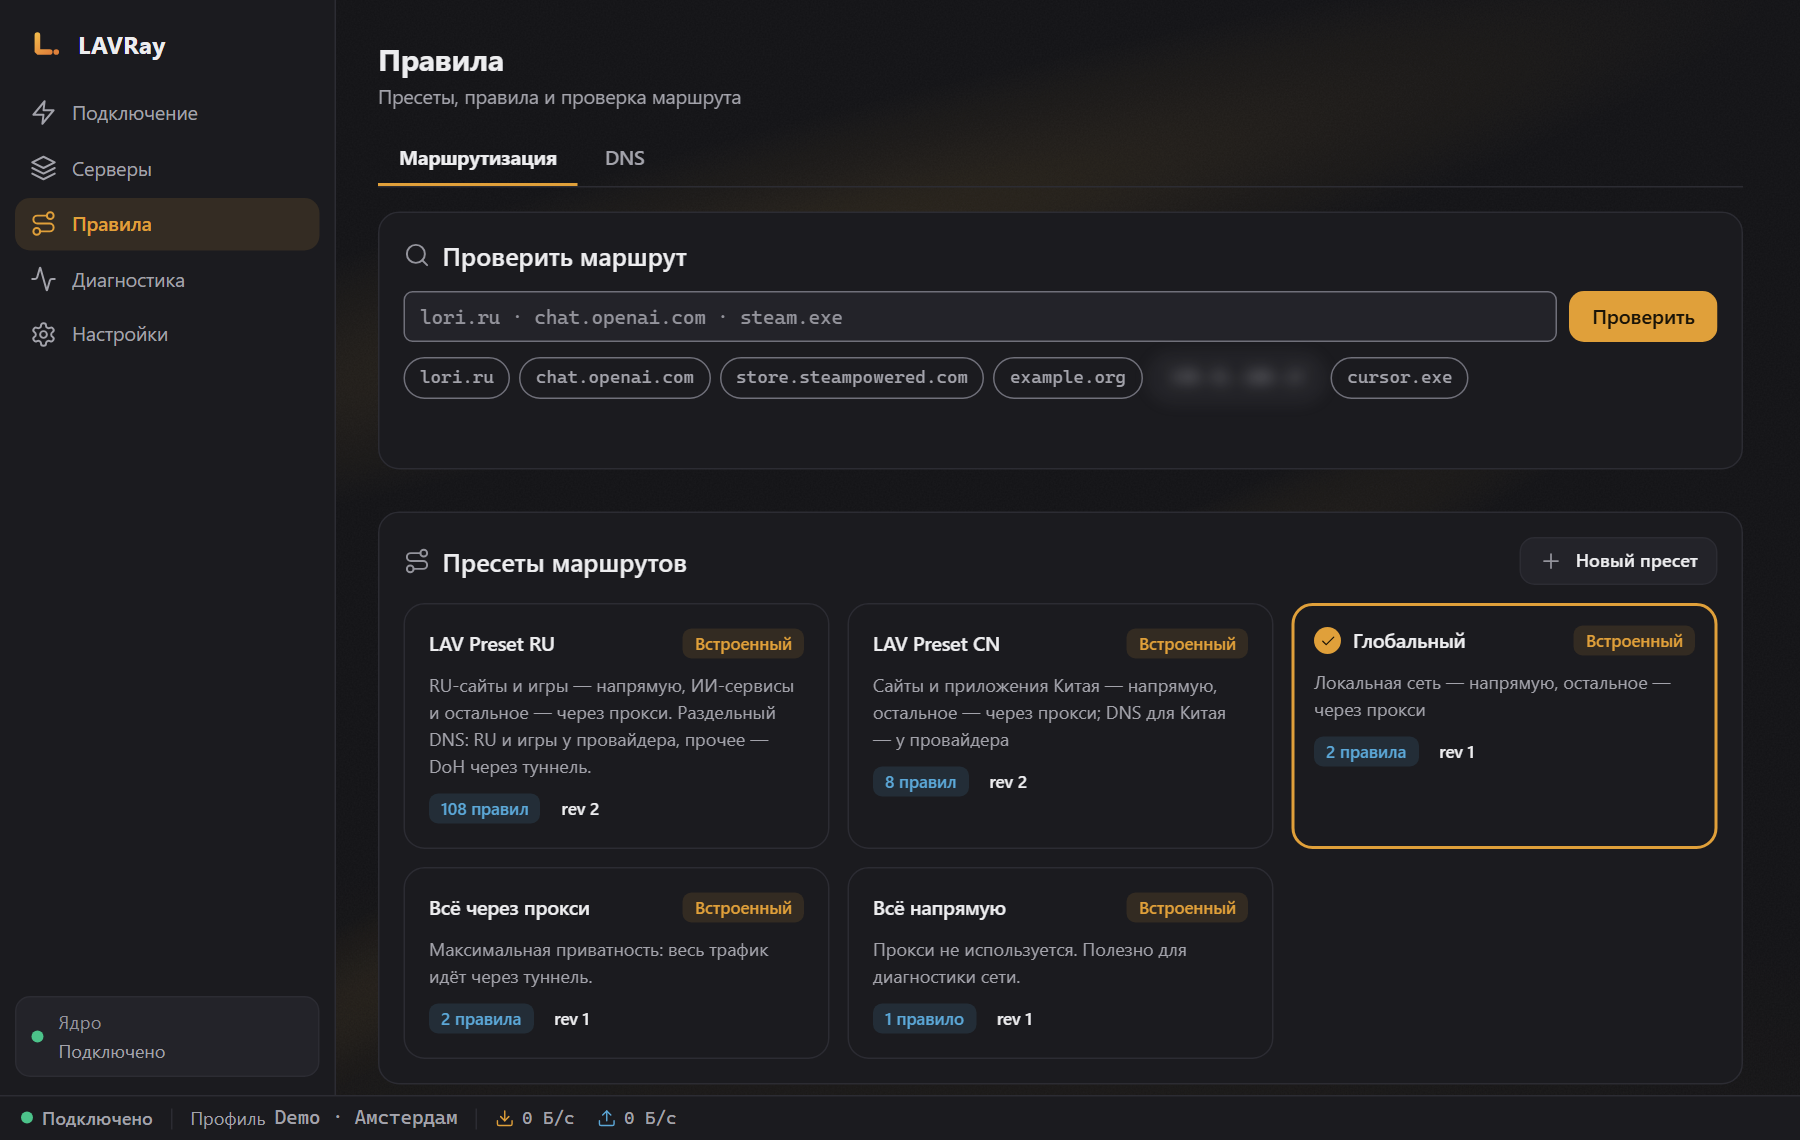
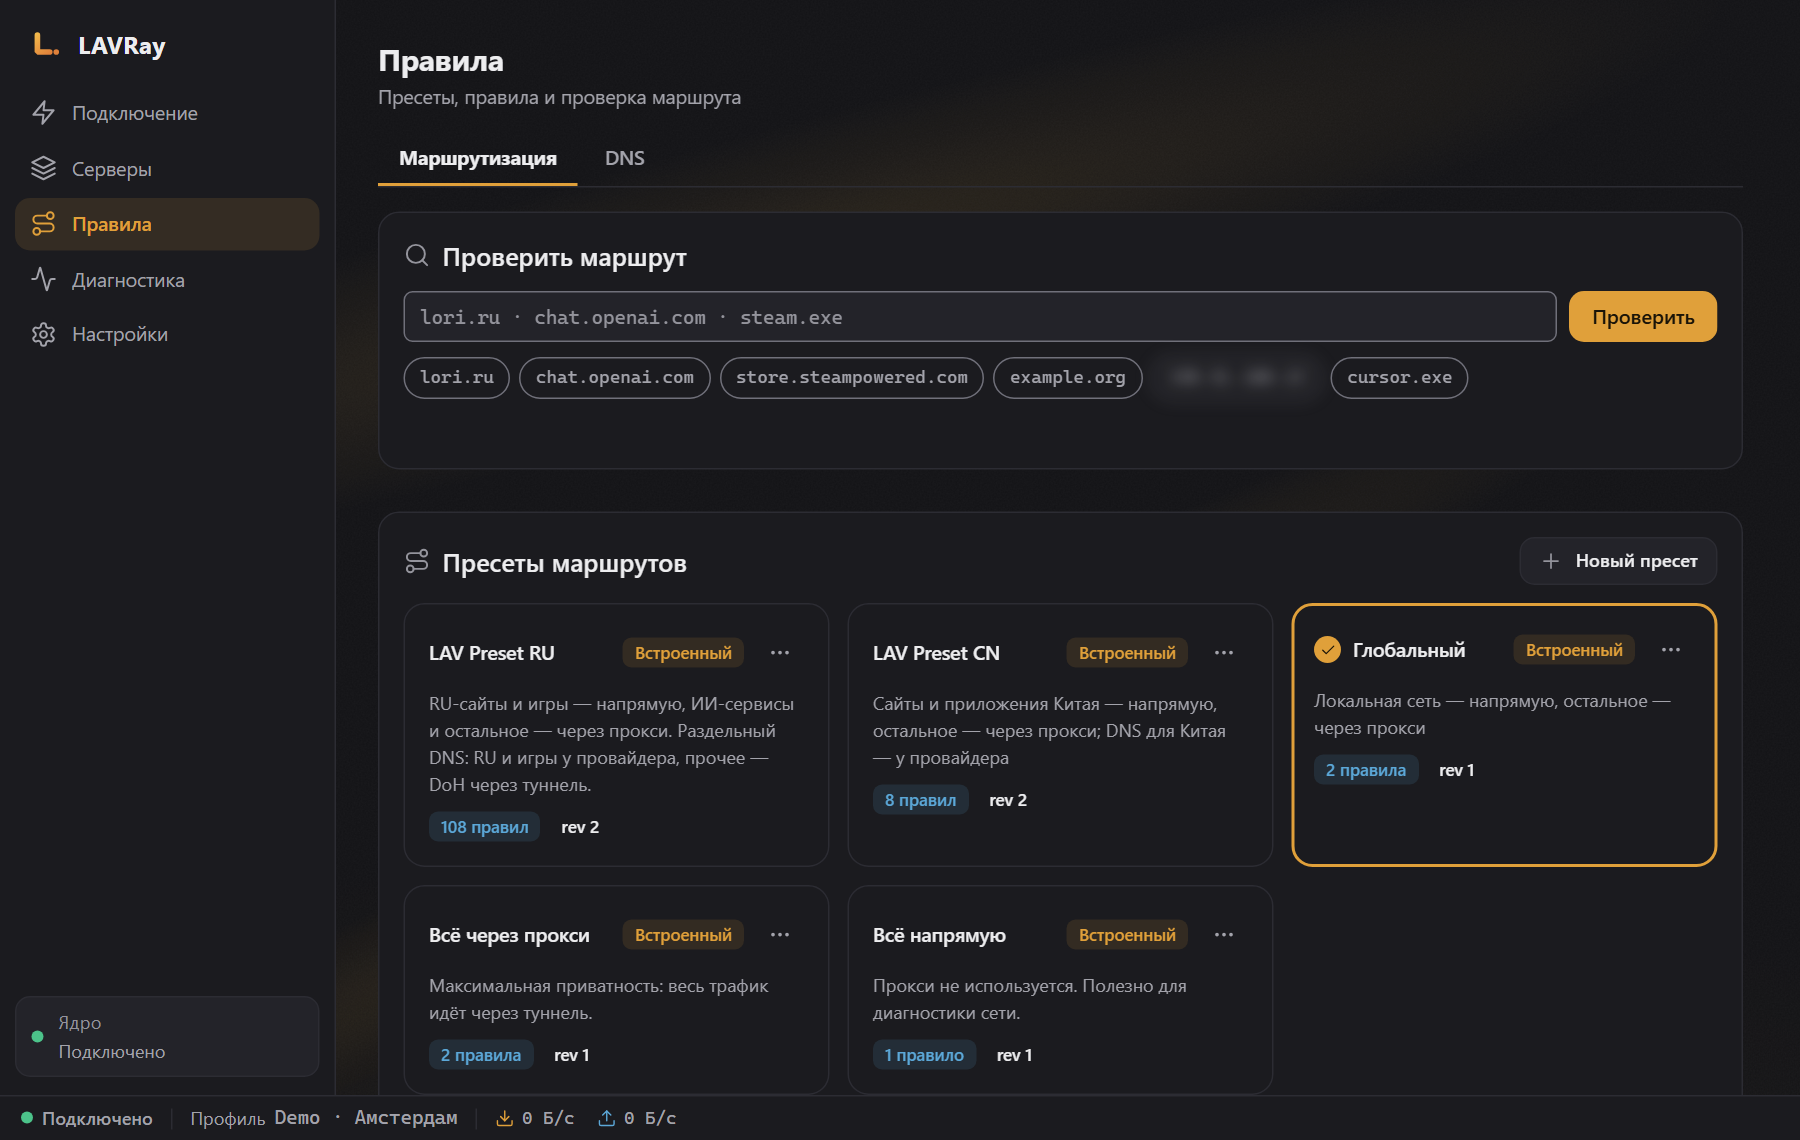
docs: скриншоты 0.9.2 на пяти языках
Русские кадры пересняты под 0.9.2; для en, zh, es, de — свои папки
docs/screenshots/<язык>/, переводы README ссылаются на них. Демо-данные,
адреса размыты.

diff --git a/README.de.md b/README.de.md
@@ -7,8 +7,8 @@
 **LAVRay** — VPN- und Proxy-Client für Windows auf Basis des [sing-box](https://github.com/SagerNet/sing-box)-Cores, Nachfolger von NekoBox. Er verbindet sich mit deinen Servern und Abos und übermittelt dem Anbieter standardmäßig keinerlei Gerätedaten.
 
 <p align="center">
-  <img src="docs/screenshots/connect-dark.png" width="49%" alt="Bildschirm „Verbindung“, dunkles Design">
-  <img src="docs/screenshots/connect-light.png" width="49%" alt="Bildschirm „Verbindung“, helles Design">
+  <img src="docs/screenshots/de/connect-dark.png" width="49%" alt="Bildschirm „Verbindung“, dunkles Design">
+  <img src="docs/screenshots/de/connect-light.png" width="49%" alt="Bildschirm „Verbindung“, helles Design">
 </p>
 
 - **Protokolle:** VLESS (einschließlich REALITY), VMess, Trojan, Shadowsocks, Hysteria2, TUIC, SOCKS, HTTP.
@@ -60,14 +60,14 @@ Das Schließen des Fensters minimiert LAVRay in den Tray; das lässt sich unter 
 
 ### Server
 
-<img src="docs/screenshots/servers.png" alt="Bildschirm „Server“">
+<img src="docs/screenshots/de/servers.png" alt="Bildschirm „Server“">
 
 - Server werden nach Ländern und Abos gruppiert; es gibt eine Suche (`Ctrl+K`), Favoriten sowie die Filter „Schnelle“ / „Unerreichbar“.
 - „Alle testen“ misst die Latenz. Im Menü ▾ daneben:
   - **URL-Test** — über jeden Server wird eine echte Seite geöffnet: Man sieht, ob der Server tatsächlich funktioniert und nicht nur, ob sein Port antwortet. Geeignet auch für Hysteria2/TUIC.
   - **Voller Test** — Latenz, UDP, Download-Geschwindigkeit und Austritts-IP; mit Häkchen wählst du aus, was gemessen wird (die Geschwindigkeit lädt eine Datei über jeden Server herunter, daher ist sie standardmäßig aus).
 
-<img src="docs/screenshots/fulltest.png" width="70%" alt="Dialog „Voller Test“">
+<img src="docs/screenshots/de/fulltest.png" width="70%" alt="Dialog „Voller Test“">
 
 Während der Tests wird die aktuelle Verbindung nicht unterbrochen.
 
@@ -85,13 +85,13 @@ Die Geschwindigkeit in der Statusleiste und das Diagramm auf dem Bildschirm „V
 
 ### Abos
 
-<img src="docs/screenshots/subscriptions.png" alt="Bildschirm „Abos“">
+<img src="docs/screenshots/de/subscriptions.png" alt="Bildschirm „Abos“">
 
 Abos werden nach Zeitplan und manuell aktualisiert („Alle aktualisieren“ zeigt das Ergebnis). Die Aktualisierung läuft transaktional ab: Liefert der Anbieter einen Fehler oder eine leere Liste, bleiben die alten Server erhalten; eine fehlgeschlagene Aktualisierung kannst du mit „Zurücksetzen“ rückgängig machen.
 
 ### Routing-Regeln
 
-<img src="docs/screenshots/routing.png" alt="Bildschirm „Regeln“">
+<img src="docs/screenshots/de/routing.png" alt="Bildschirm „Regeln“">
 
 Integrierte Presets: „Global“, „Alles durch den Proxy“, „Alles direkt“, **LAV Preset RU** und LAV Preset CN. Unten auf dem Bildschirm kannst du prüfen, wohin eine bestimmte Adresse geht.
 
@@ -103,7 +103,7 @@ Die Leck-Prüfung (IP über den Tunnel und direkt, DNS, IPv6) findest du direkt 
 
 ### Einstellungen
 
-<img src="docs/screenshots/settings.png" alt="Bildschirm „Einstellungen“">
+<img src="docs/screenshots/de/settings.png" alt="Bildschirm „Einstellungen“">
 
 Sprache (Русский, English, 中文, Español, Deutsch), Design, Port des lokalen Proxys, Autostart, automatische Verbindung beim Start, „Beim Schließen in den Tray minimieren“, Start minimiert, „Benachrichtigungen“, das globale Kürzel „Verbinden / Trennen“, Abo-Aktualisierung, Verbindungsprüfung nach dem Verbinden, Agenten (MCP).
 
@@ -127,7 +127,7 @@ Verlangt der Anbieter eine HWID, kannst du sie in den Abo-Einstellungen aktivier
 
 LAVRay kann mit KI-Agenten über das [MCP](https://modelcontextprotocol.io)-Protokoll arbeiten: Du kannst Claude oder Cursor bitten: „verbinde dich mit dem schnellsten Server“, „prüfe die Server“, „aktualisiere die Abos“, „welche IP habe ich gerade?“.
 
-<img src="docs/screenshots/settings-mcp.png" alt="Einstellungen → Agenten (MCP)">
+<img src="docs/screenshots/de/settings-mcp.png" alt="Einstellungen → Agenten (MCP)">
 
 **So aktivierst du es**
 

diff --git a/README.es.md b/README.es.md
@@ -7,8 +7,8 @@
 **LAVRay** — cliente VPN y proxy para Windows sobre el núcleo [sing-box](https://github.com/SagerNet/sing-box), sucesor de NekoBox. Se conecta a tus servidores y suscripciones y, por defecto, no envía al proveedor de la suscripción ningún dato sobre el dispositivo.
 
 <p align="center">
-  <img src="docs/screenshots/connect-dark.png" width="49%" alt="Pantalla «Conexión», tema oscuro">
-  <img src="docs/screenshots/connect-light.png" width="49%" alt="Pantalla «Conexión», tema claro">
+  <img src="docs/screenshots/es/connect-dark.png" width="49%" alt="Pantalla «Conexión», tema oscuro">
+  <img src="docs/screenshots/es/connect-light.png" width="49%" alt="Pantalla «Conexión», tema claro">
 </p>
 
 - **Protocolos:** VLESS (incluido REALITY), VMess, Trojan, Shadowsocks, Hysteria2, TUIC, SOCKS, HTTP.
@@ -60,14 +60,14 @@ Al cerrar la ventana, LAVRay se minimiza a la bandeja; esto se puede desactivar 
 
 ### Servidores
 
-<img src="docs/screenshots/servers.png" alt="Pantalla «Servidores»">
+<img src="docs/screenshots/es/servers.png" alt="Pantalla «Servidores»">
 
 - Los servidores se agrupan por país y suscripción; hay búsqueda (`Ctrl+K`), favoritos y los filtros «Rápidos» / «Inaccesibles».
 - «Probar todos» mide la latencia. En el menú ▾ junto al botón:
   - **Prueba de URL**: se abre una página real a través de cada servidor, así se ve si el servidor funciona de verdad y no solo si su puerto responde. También sirve para Hysteria2/TUIC.
   - **Prueba completa**: latencia, UDP, velocidad de descarga e IP de salida; con las casillas eliges qué medir (la velocidad descarga un archivo a través de cada servidor, por eso viene desactivada por defecto).
 
-<img src="docs/screenshots/fulltest.png" width="70%" alt="Diálogo «Prueba completa»">
+<img src="docs/screenshots/es/fulltest.png" width="70%" alt="Diálogo «Prueba completa»">
 
 Durante las pruebas, la conexión actual no se interrumpe.
 
@@ -85,13 +85,13 @@ La velocidad en la barra de estado y el gráfico de la pantalla «Conexión» mu
 
 ### Suscripciones
 
-<img src="docs/screenshots/subscriptions.png" alt="Pantalla «Suscripciones»">
+<img src="docs/screenshots/es/subscriptions.png" alt="Pantalla «Suscripciones»">
 
 Las suscripciones se actualizan según un horario y manualmente («Actualizar todo» muestra el resumen). La actualización es transaccional: si el proveedor devuelve un error o una lista vacía, los servidores antiguos se conservan; una actualización fallida se puede «Revertir».
 
 ### Reglas de enrutamiento
 
-<img src="docs/screenshots/routing.png" alt="Pantalla «Reglas»">
+<img src="docs/screenshots/es/routing.png" alt="Pantalla «Reglas»">
 
 Conjuntos integrados: «Global», «Todo por el proxy», «Todo directo», **LAV Preset RU** y LAV Preset CN. En la parte inferior de la pantalla puedes comprobar por dónde irá una dirección concreta.
 
@@ -103,7 +103,7 @@ La comprobación de fugas (IP a través del túnel y directa, DNS, IPv6) está d
 
 ### Ajustes
 
-<img src="docs/screenshots/settings.png" alt="Pantalla «Ajustes»">
+<img src="docs/screenshots/es/settings.png" alt="Pantalla «Ajustes»">
 
 Idioma (Русский, English, 中文, Español, Deutsch), tema, puerto del proxy local, arranque automático, conexión automática al iniciar, «Minimizar a la bandeja al cerrar», inicio minimizado, «Notificaciones», atajo global «Conectar / desconectar», actualización de suscripciones, comprobación de la conexión tras conectar, agentes (MCP).
 
@@ -127,7 +127,7 @@ Si el proveedor exige HWID, se puede activar en los ajustes de suscripciones («
 
 LAVRay puede trabajar con agentes de IA mediante el protocolo [MCP](https://modelcontextprotocol.io): puedes pedirle a Claude o Cursor «conéctate al servidor más rápido», «comprueba los servidores», «actualiza las suscripciones», «¿cuál es ahora mi IP?».
 
-<img src="docs/screenshots/settings-mcp.png" alt="Ajustes → Agentes (MCP)">
+<img src="docs/screenshots/es/settings-mcp.png" alt="Ajustes → Agentes (MCP)">
 
 **Cómo activarlo**
 

diff --git a/README.en.md b/README.en.md
@@ -7,8 +7,8 @@
 **LAVRay** is a VPN and proxy client for Windows built on the [sing-box](https://github.com/SagerNet/sing-box) core, the successor to NekoBox. It connects to your servers and subscriptions and, by default, does not send the subscription provider any data about your device.
 
 <p align="center">
-  <img src="docs/screenshots/connect-dark.png" width="49%" alt="Connection screen, dark theme">
-  <img src="docs/screenshots/connect-light.png" width="49%" alt="Connection screen, light theme">
+  <img src="docs/screenshots/en/connect-dark.png" width="49%" alt="Connection screen, dark theme">
+  <img src="docs/screenshots/en/connect-light.png" width="49%" alt="Connection screen, light theme">
 </p>
 
 - **Protocols:** VLESS (including REALITY), VMess, Trojan, Shadowsocks, Hysteria2, TUIC, SOCKS, HTTP.
@@ -60,14 +60,14 @@ Closing the window minimizes LAVRay to the tray; you can turn this off in "Setti
 
 ### Servers
 
-<img src="docs/screenshots/servers.png" alt="Servers screen">
+<img src="docs/screenshots/en/servers.png" alt="Servers screen">
 
 - Servers are grouped by country and subscription. There is search (`Ctrl+K`), favorites, and the filters "Fast" / "Unreachable".
 - "Test all" measures latency. The ▾ menu next to it has:
   - **URL test** — a real page is opened through each server, so you can see whether the server actually works, not just whether its port responds. It also works for Hysteria2/TUIC.
   - **Full test** — latency, UDP, download speed and exit IP; check boxes select what to measure (the speed test downloads a file through each server, so it is off by default).
 
-<img src="docs/screenshots/fulltest.png" width="70%" alt="Full test dialog">
+<img src="docs/screenshots/en/fulltest.png" width="70%" alt="Full test dialog">
 
 The current connection is not interrupted while tests are running.
 
@@ -85,13 +85,13 @@ The speed in the status bar and the chart on the "Connection" screen show real t
 
 ### Subscriptions
 
-<img src="docs/screenshots/subscriptions.png" alt="Subscriptions screen">
+<img src="docs/screenshots/en/subscriptions.png" alt="Subscriptions screen">
 
 Subscriptions update on a schedule and manually ("Update all" shows a summary). Updates are transactional: if the provider returns an error or an empty list, the old servers are kept; a failed update can be rolled back with "Roll back".
 
 ### Routing rules
 
-<img src="docs/screenshots/routing.png" alt="Rules screen">
+<img src="docs/screenshots/en/routing.png" alt="Rules screen">
 
 Built-in presets: "Global", "Route everything through the proxy", "Route everything directly", **LAV Preset RU** and LAV Preset CN. At the bottom of the screen you can check where a specific address will go.
 
@@ -103,7 +103,7 @@ The leak check (IP through the tunnel and directly, DNS, IPv6) is available righ
 
 ### Settings
 
-<img src="docs/screenshots/settings.png" alt="Settings screen">
+<img src="docs/screenshots/en/settings.png" alt="Settings screen">
 
 Language (Русский, English, 中文, Español, Deutsch), theme, local proxy port, autostart, auto-connect at startup, "Minimize to tray on close", start minimized, "Notifications", the global shortcut for "Connect / disconnect", subscription updates, connectivity check after connecting, agents (MCP).
 
@@ -127,7 +127,7 @@ If the provider requires an HWID, it can be enabled in the subscription settings
 
 LAVRay can work with AI agents over the [MCP](https://modelcontextprotocol.io) protocol: you can ask Claude or Cursor to connect you to the fastest server, check the servers, refresh subscriptions, or tell you your current IP.
 
-<img src="docs/screenshots/settings-mcp.png" alt="Settings → Agents (MCP)">
+<img src="docs/screenshots/en/settings-mcp.png" alt="Settings → Agents (MCP)">
 
 **How to enable**
 

diff --git a/README.zh.md b/README.zh.md
@@ -7,8 +7,8 @@
 **LAVRay** 是基于 [sing-box](https://github.com/SagerNet/sing-box) 内核的 Windows VPN 和代理客户端，是 NekoBox 的继承者。它连接到您的服务器和订阅，并且默认不会向订阅服务商发送任何设备信息。
 
 <p align="center">
-  <img src="docs/screenshots/connect-dark.png" width="49%" alt="“连接”界面，深色主题">
-  <img src="docs/screenshots/connect-light.png" width="49%" alt="“连接”界面，浅色主题">
+  <img src="docs/screenshots/zh/connect-dark.png" width="49%" alt="“连接”界面，深色主题">
+  <img src="docs/screenshots/zh/connect-light.png" width="49%" alt="“连接”界面，浅色主题">
 </p>
 
 - **协议：** VLESS（包括 REALITY）、VMess、Trojan、Shadowsocks、Hysteria2、TUIC、SOCKS、HTTP。
@@ -60,14 +60,14 @@ Get-FileHash .\LAVRay-0.9.2-x64-setup.exe -Algorithm SHA256
 
 ### 服务器
 
-<img src="docs/screenshots/servers.png" alt="“服务器”界面">
+<img src="docs/screenshots/zh/servers.png" alt="“服务器”界面">
 
 - 服务器按国家和订阅分组，支持搜索（`Ctrl+K`）、收藏，以及“低延迟” / “不可达”筛选。
 - “全部测试”用于测量延迟。旁边的 ▾ 菜单中还有：
   - **URL 测试**：通过每台服务器打开真实网页，可以确认服务器是否真正可用，而不仅仅是端口是否有响应。也适用于 Hysteria2/TUIC。
   - **完整测试**：延迟、UDP、下载速度和出口 IP；通过勾选选择要测量的项目（速度测试会通过每台服务器下载文件，因此默认关闭）。
 
-<img src="docs/screenshots/fulltest.png" width="70%" alt="“完整测试”对话框">
+<img src="docs/screenshots/zh/fulltest.png" width="70%" alt="“完整测试”对话框">
 
 测试期间，当前连接不会中断。
 
@@ -85,13 +85,13 @@ Get-FileHash .\LAVRay-0.9.2-x64-setup.exe -Algorithm SHA256
 
 ### 订阅
 
-<img src="docs/screenshots/subscriptions.png" alt="“订阅”界面">
+<img src="docs/screenshots/zh/subscriptions.png" alt="“订阅”界面">
 
 订阅可按计划自动更新，也可手动更新（“全部更新”会显示汇总结果）。更新采用事务方式：如果服务商返回错误或空列表，旧服务器将保留；更新失败的可以“回滚”。
 
 ### 路由规则
 
-<img src="docs/screenshots/routing.png" alt="“规则”界面">
+<img src="docs/screenshots/zh/routing.png" alt="“规则”界面">
 
 内置预设：“全局”、“全部走代理”、“全部直连”、**LAV Preset RU** 和 LAV Preset CN。在屏幕底部可以检查某个地址会走哪条路径。
 
@@ -103,7 +103,7 @@ Get-FileHash .\LAVRay-0.9.2-x64-setup.exe -Algorithm SHA256
 
 ### 设置
 
-<img src="docs/screenshots/settings.png" alt="“设置”界面">
+<img src="docs/screenshots/zh/settings.png" alt="“设置”界面">
 
 语言（Русский、English、中文、Español、Deutsch）、主题、本地代理端口、开机自启、启动时自动连接、“关闭时最小化到托盘”、最小化启动、“通知”、全局快捷键“连接 / 断开”、订阅更新、连接后检查连通性、智能体 (MCP)。
 
@@ -127,7 +127,7 @@ Get-FileHash .\LAVRay-0.9.2-x64-setup.exe -Algorithm SHA256
 
 LAVRay 可通过 [MCP](https://modelcontextprotocol.io) 协议与 AI 智能体协作：您可以让 Claude 或 Cursor 执行“连接到最快的服务器”“检查服务器”“更新订阅”“我现在的 IP 是多少”等操作。
 
-<img src="docs/screenshots/settings-mcp.png" alt="设置 → 智能体 (MCP)">
+<img src="docs/screenshots/zh/settings-mcp.png" alt="设置 → 智能体 (MCP)">
 
 **如何启用**
 
